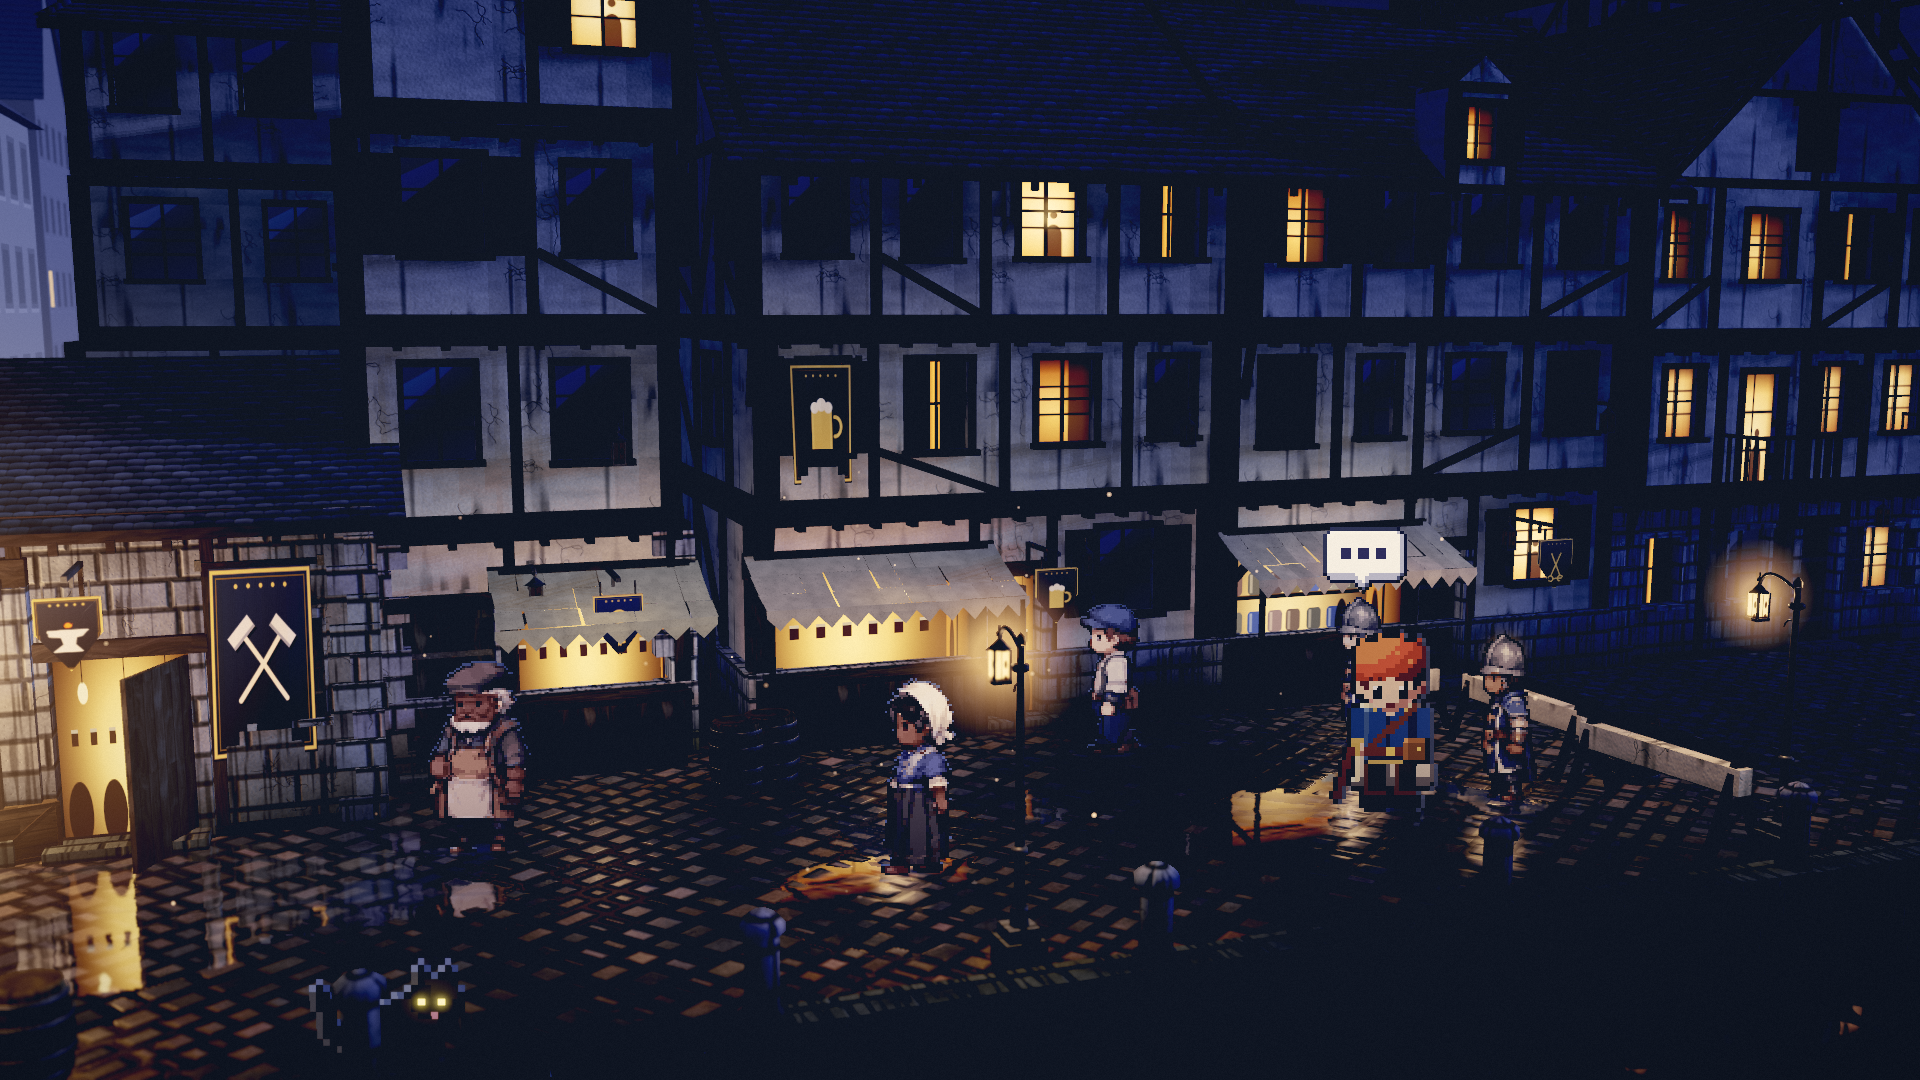
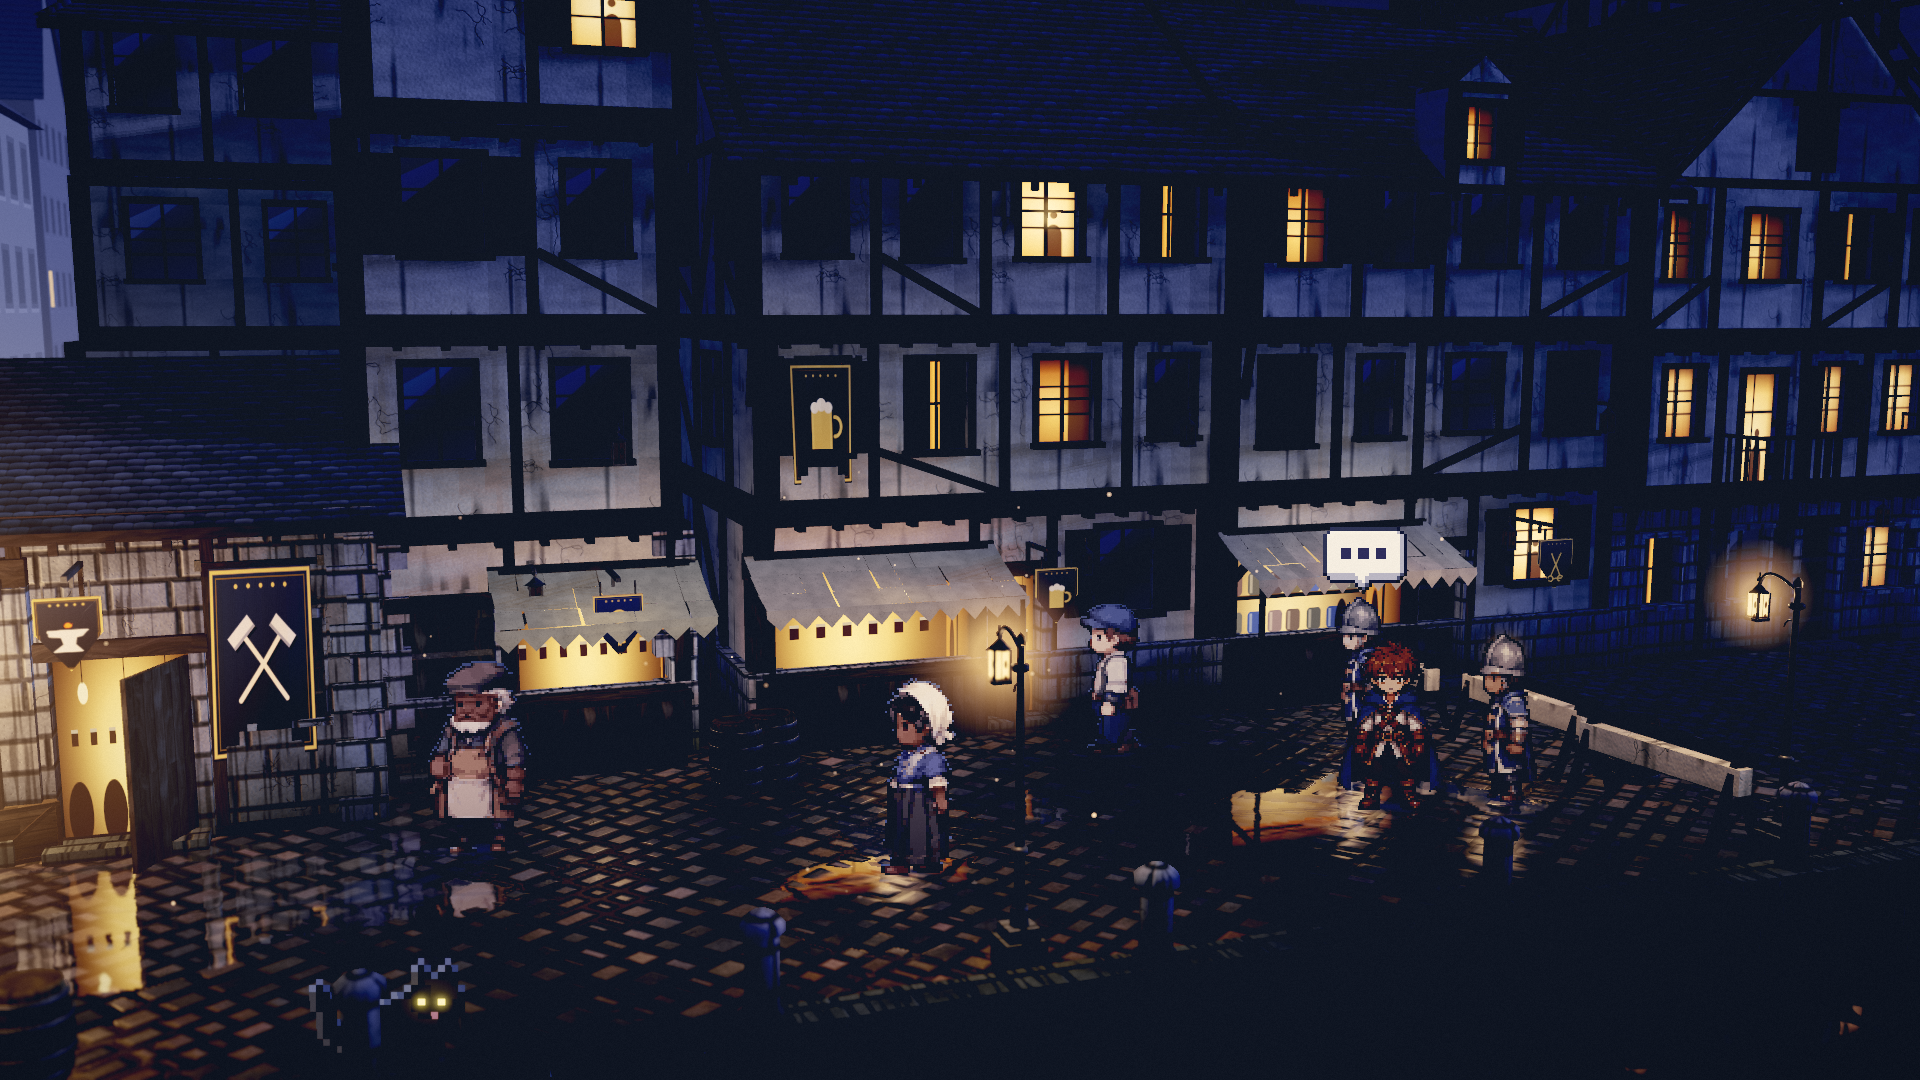
Pass H10: hero-x2-v3 in production on the player and the five-view rule by default (operator decisions RH1 « Production », RH2 « Par défaut avec le héros »)
The manifest approved with the decision quoted and dated (export 65788b0d...), the pack's approvals and rights line; the hero is the cast's
last entry (its 60 frames open the baked texture's second column, every NPC frame keeps its cell: 382 of 672). ActorSystem.views5 on by
default, ?views=3 for the three-view rule. Proofs: the branch's default equals frozen main with ?cast=candidate&views=5 at 0 px in A/B/C/D;
?cast=generated 0 px; against main's default only the player changes; the production bundle carries the hero; foot slip B -0.07, D -0.07;
tests rewritten (atlas order and cells, cast roles, walkSlide 14), a fault injected and caught; calibration references refreshed.

Changed region(s): [[0.6875, 0.5806, 0.75, 0.7639]]

diff --git a/src/characters/BakedCast.ts b/src/characters/BakedCast.ts
@@ -84,8 +84,9 @@ const ENTRIES: Entry[] = [
   { manifest: { id: twId, status: twStatus, approved: twApproved, runtimeUse: twUse }, png: townswomanPng, json: townswomanJson, files: townswomanFiles, replaces: ['crowd2'], scale: 0.9 },
   { manifest: { id: omId, status: omStatus, approved: omApproved, runtimeUse: omUse }, png: olderMerchantPng, json: olderMerchantJson, files: olderMerchantFiles, replaces: ['crowd3'], scale: 0.9 },
   { manifest: { id: coId, status: coStatus, approved: coApproved, runtimeUse: coUse }, png: courierPng, json: courierJson, files: courierFiles, replaces: ['crowd4'], scale: 0.9 },
-  // CANDIDATE, not approved (journal Pass H8; hero-x2-v2 of Pass H5 before it): the premium hero on the player, DEV review only
-  // (?cast=candidate); its three-quarter facings only with ?views=5
+  // the premium hero on the player (journal Passes H8, H9; approved for production on 2026-10-19, review sheet RH1 « Production », Passe D3);
+  // its three-quarter facings through the five-view rule, the default (?views=3: three views). LAST in the list: its 60 frames come after the
+  // NPCs' in the baked texture (the first column full, the second opened), so every NPC frame keeps its cell (journal Passe T1)
   { manifest: { id: heId, status: heStatus, approved: heApproved, runtimeUse: heUse }, png: heroPng, json: heroJson, files: heroFiles, replaces: ['player'], scale: 0.9 },
 ];
 

diff --git a/src/app/App.ts b/src/app/App.ts
@@ -187,8 +187,9 @@ export class App {
     // ?crowd=<n>: n ambient walkers, the five townsfolk in turn (journal Passe C1); absent: round(5 x density), the default (Passe C2)
     const crowd = Number(this.opts.params.get('crowd'));
     if (this.opts.params.has('crowd') && Number.isInteger(crowd) && crowd >= 0 && crowd <= 12) this.actors.crowdCount = crowd;
-    // DEV ?views=5: the five-view rule for the sheets that have three-quarter facings (journal Passe V5; a review before the operator decides)
-    if (import.meta.env.DEV && this.opts.params.get('views') === '5') this.actors.views5 = true;
+    // the five-view rule for the sheets that have three-quarter facings, by default (journal Passe V5; the operator's decision of 2026-10-19,
+    // « Par défaut avec le héros », Passes D3 / H10); ?views=3: the three-view rule for every sprite, for comparison
+    if (this.opts.params.get('views') === '3') this.actors.views5 = false;
     if (baked) this.actors.authored = baked.spawns;
     this.actors.onInteractForge = () => this.setForgeState(this.config.forgeState === 'NORMAL_FORGE' ? 'SABOTAGED_FORGE' : 'NORMAL_FORGE');
     this.scene.add(this.sprites.group);

diff --git a/src/characters/ActorSystem.ts b/src/characters/ActorSystem.ts
@@ -70,9 +70,10 @@ export class ActorSystem {
    *  (the operator's decision of 2026-10-19, « Cinq par défaut », journal Passe C2: at density 1 each approved townsperson walks once) */
   crowdCount: number | null = null;
 
-  /** the five-view rule for walking facings (fiveViewFacing; DEV `?views=5`, journal Passe V5), for the sheets that have the two three-quarter
-   *  facings only: every other sprite keeps the three-view rule, unchanged */
-  views5 = false;
+  /** the five-view rule for walking facings (fiveViewFacing, journal Passe V5; the default since the operator's decision of 2026-10-19,
+   *  Passes D3 / H10; `?views=3` turns it off), for the sheets that have the two three-quarter facings only: every other sprite keeps the
+   *  three-view rule, unchanged */
+  views5 = true;
   private has34 = new Map<string, boolean>();
 
   /** camera: shows a walking facing by its on-screen direction (null: the world rule for every facing) */

diff --git a/JOURNAL.md b/JOURNAL.md
@@ -800,14 +800,72 @@ Rien à faire pour RH3, RH4 (les trois-quarts des PNJ restent « Plus tard ») e
 - Les choix se relisent dans la collection même quand l'opérateur colle le récapitulatif. Les deux concordent ici ; un écart serait reposé
   à l'opérateur avant d'agir.
 
+## Passe H10 — Héros : `hero-x2-v3` en production, la règle à cinq vues par défaut (décisions RH1, RH2) (2026-10-19)
+
+### Demande
+- Décisions de l'opérateur (Passe D3), mot pour mot : RH1 « Production », RH2 « Par défaut avec le héros ».
+- Branche `hero-production-h10` depuis `main` (`095e716`).
+
+### Fait — [OK]
+- **Approbation** : le manifeste passe à `status: approved`, `approved: true`, `runtimeUse: production`.
+  - L'approbation cite la décision et sa date, et l'empreinte de l'export approuvé (`65788b0d…`, celui de la Passe H9).
+  - Le paquet de provenance reçoit la même entrée dans `approvals`, son statut et la ligne des droits.
+  - Droits : la planche v4-b, générée avec le compte OpenAI de l'opérateur, et sa planche v3 ; l'usage en production décidé par l'opérateur ;
+    droits de tiers non vérifiés exhaustivement ; C2PA lu, non vérifié.
+  - Pas de Gold Master (RJ3).
+- **Distribution** : l'entrée du héros reste la **dernière** de `BakedCast`.
+  - Ses 60 images viennent après les 322 des PNJ dans la texture cuite : la première colonne se remplit, la seconde s'ouvre (382 images sur
+    les 672 garanties, Passe T1).
+  - Chaque image des PNJ garde sa case.
+- **Cinq vues par défaut** : `ActorSystem.views5 = true`. `?views=3` rend la règle à trois vues à tout sprite ; le paramètre `?views=5`
+  disparaît. Elle ne s'applique qu'aux feuilles qui ont les deux trois-quarts : aujourd'hui, le héros seul.
+- **Documents** : `AGENTS.md` (le principe de production, les paramètres `views`, `cast`), `art-lab/README.md`,
+  `art-lab/characters/README.md` (tableau de la distribution).
+
+### Preuves
+- **Captures déterministes** : graine 1842, `clean=1&freeze=7.3&vis=0`, 300 pas, A / B / C / D ; la branche contre `main` figé
+  (`095e716`, :5187).
+  - **La production est exactement ce que l'opérateur a revu** : la branche par défaut contre `main` avec `?cast=candidate&views=5` donne
+    **0 px** sur les quatre cadrages (écart max 0).
+  - `?cast=generated` : **0 px** contre `main` ; l'ancienne distribution générée reste disponible.
+  - Contre `main` par défaut, seul le joueur change : son sprite, son reflet, sa longue ombre de lune (A 14 602 px, B 31 963, C 33 071 ;
+    D 0, le joueur hors champ).
+  - Témoin de répétition : 0 px.
+- **Bundle de production** (`npm run build`, servi par `vite preview` sur :5189) : le joueur porte `hero-x2-v3`, la règle à cinq vues est
+  active, la texture cuite fait 2 048 de large.
+  - **[?]** Le bundle et le serveur DEV ne donnent pas la même image à la même graine (B : 22 919 px), y compris avec `?cast=generated`
+    (24 230 px). L'écart ne vient donc pas du héros ; sa cause n'est pas cherchée (piste : du code DEV qui tire dans `Math.random` à graine).
+    Les preuves d'image se comparent sur le même type de serveur.
+- **Glissement en mouvement** (`tools/foot-slip.mjs --secs=3 --keys=d`) : B −0,07, D −0,07. Ce sont les valeurs de la Passe H8, la
+  quantification.
+- **Tests** :
+  - `tests/baked-atlas.test.mjs` réécrit : le héros est la dernière feuille de la production ; les PNJ gardent case et octets ; le héros
+    remplit la dernière étagère de la première colonne puis la seconde ; 336 < 382 ≤ 672.
+  - `tests/baked-cast.test.mjs` : le joueur entre dans la liste des rôles distribués.
+  - `tests/stride.test.mjs` : `walkSlide` du héros, 14.
+  - **Faute injectée** (le héros remis avant les citadins dans la liste) : attrapée.
+  - typecheck, `npm test` 87 / 87, build, `art:validate` 0 erreur.
+- **Références** : `screenshots/calibration/cam{A,B,C,D}-*.png` refaites (requêtes de `tools/screenshots.mjs`, capture déterministe, 120 pas,
+  témoin 0 px). Contre les anciennes : 0,23 à 0,92 % des pixels, tous autour du joueur.
+
+### Restes [?]
+- Le chat reste généré.
+- Relevés de la Passe H9, à suivre en jeu : la course de face « sur place », la bouche grisâtre en B, l'œil lointain du trois-quarts.
+- Les trois-quarts des PNJ : « Plus tard » (RH4).
+
+### Pensée
+- Une approbation de production se prouve contre ce que l'opérateur a revu, sur la même base : la production d'après doit égaler, au pixel
+  près, la revue d'avant (`?cast=candidate&views=5` sur `main`).
+- Une feuille ajoutée en dernier ne déplace rien de ce qui la précède ; le test le dit par l'ordre et par les cases.
+
 ## À reprendre (par priorité)
 
 > Élaguée le 18/10 (Passe M3) : seul le travail ouvert reste, regroupé par thème ; ce qui est fait vit dans sa passe. Les anciens repères
 > (-3 … 6) cités par les passes antérieures renvoient à la liste de `7086340` (`git show 7086340:JOURNAL.md`).
 
-**0. Jalon M1 — décisions de la fiche de revue (Passe D3), à appliquer dans l'ordre de cette passe** : héros en production et cinq vues
-par défaut ; pivot de A à 5,8 ; suivi `?camfollow=screen` par défaut avec sa preuve ; diagnostic du recul au bord de l'eau ; gel (T1, T2,
-T7) ; district clos après le gel ; puis l'état jour. Gold Master : « Pas encore » (RJ3).
+**0. Jalon M1 — décisions de la fiche de revue (Passe D3), à appliquer dans l'ordre de cette passe** : pivot de A à 5,8 ;
+suivi `?camfollow=screen` par défaut avec sa preuve ; diagnostic du recul au bord de l'eau ; gel (T1, T2, T7) ; district clos après le gel ;
+puis l'état jour. Gold Master : « Pas encore » (RJ3). Fait : le héros en production et les cinq vues par défaut (Passe H10).
 
 **1. Distribution de personnages — décisions de l'opérateur, non traitées** (état de la distribution : `art-lab/characters/README.md`)
 - **Variantes de PNJ** (demande de l'opérateur du 17/10, mot pour mot : « Par ailleurs a la suite de nos travaux de sprites NPC qui sont
@@ -849,11 +907,11 @@ T7) ; district clos après le gel ; puis l'état jour. Gold Master : « Pas enco
   glissement ≈ 0). Décisions de la Passe D1 : « Source : la b » (planche v4-b), « Cinq vues, le héros d'abord », « Sprint ×1,2 », vues du
   côté droit « Ignorées » : appliquées en Passe H8 (`hero-x2-v3`, candidat en cinq vues, revue de l'opérateur en jeu) ; visage retouché au texel en Passe H9 (yeux
   ouverts, bouche, ombre des joues ; critique à l'aveugle : 7 contre 5 sur le visage) ; fiche de revue (Passe D3) : RH1 « Production »,
-  RH2 « Par défaut avec le héros », RH3 « Fait », RH4 « Plus tard » (les trois-quarts des PNJ). Vues de trois-quarts : étude `briefs/three-quarter-views.md` (aucun trois-quarts dos sur la planche v3 ; Passe I1 :
+  RH2 « Par défaut avec le héros » : **en production depuis la Passe H10**, cinq vues par défaut ; RH3 « Fait », RH4 « Plus tard » (les trois-quarts des PNJ). Vues de trois-quarts : étude `briefs/three-quarter-views.md` (aucun trois-quarts dos sur la planche v3 ; Passe I1 :
   deux planches générées en huit vues, trois-quarts dos compris, archivées comme sources non canoniques). Plus tard : masques du héros pour ses
   déclinaisons, écran de choix (code de jeu). Le reste des planches du casting : propositions non canoniques, design à valider avant toute
   production.
-- **Personnages clés et suite de l'art** : héros et chat restent générés (densité ×1) ; ni personnage clé ni personnage **original** au
+- **Personnages clés et suite de l'art** : le chat reste généré (densité ×1 ; le héros est cuit depuis la Passe H10) ; ni personnage clé ni personnage **original** au
   même niveau ; E4 non lancée. Avant d'étendre : densité du cast (héros), liseré dépendant de la densité (liseré par sprite non implémenté),
   largeurs de texel inégales à ≈ 2 px / texel, cycle de marche en A. Décision ouverte : quelles planches étaient réellement rejetées (la
   consigne de 4A en parlait sans les montrer ; les trois planches archivées sont toutes classées comme références). Le modelé ×1,5 n'est

diff --git a/AGENTS.md b/AGENTS.md
@@ -211,10 +211,11 @@ on the porter actor, standing still, in the real scene; `-` = generated frames f
 see `art-lab/README.md`) · DEV server only, EXPERIMENTAL: `baked=<id>&bakedpos=x,z` (a baked export in the MAIN atlas and renderer, per
 `art-lab/characters/runtime-integration-contract.md` v3; never in production builds; flags in `src/lab/bakedLoader.ts`) · `crowd=<n>` (n ambient walkers, the five townsfolk in turn, journal Passe C1; absent =
 round(5 x density) in turn, each townsperson once at density 1: the operator's decision of 2026-10-19, « Cinq par défaut », journal Passe C2) · `cast=generated`
-(skip the production cast of baked characters, `src/characters/BakedCast.ts`: the old generated porter / merchant) · DEV server only:
-`cast=candidate` (also load the cast entries whose manifests still wait for the operator's approval: review before production) · DEV server only:
-`views=5` (the five-view rule, journal Passe V5: front / three-quarter / profile sectors at 22.5 / 67.5 deg on screen, for the sheets
-that hold both three-quarter facings `downSide` / `upSide` only; every other sprite keeps the three views) · DEV server only:
+(skip the production cast of baked characters, `src/characters/BakedCast.ts`: the old generated hero / porter / merchant / NPCs) · DEV server only:
+`cast=candidate` (also load the cast entries whose manifests still wait for the operator's approval: review before production; none today) ·
+`views=3` (the three-view rule for every sprite; absent = the five-view rule, journal Passe V5: front / three-quarter / profile sectors at
+22.5 / 67.5 deg on screen, for the sheets that hold both three-quarter facings `downSide` / `upSide` only, today the hero; every other sprite
+keeps the three views; the default since the operator's decision of 2026-10-19, « Par défaut avec le héros », journal Passes D3 / H10) · DEV server only:
 `variants=candidate` (apply the NPC variants file `art-lab/characters/variants/variants.json` while it waits for the operator's approval; production
 applies it only once approved, its mask fingerprints checked, journal Passe V1) · `scene=arena` (the arena of the Cité du Tournoi instead of the
 town, `src/arena/ArenaApp.ts`, loaded on demand; journal Passe P1; absent = the town, unchanged) with `assist=subtle|full|off` (the prototype's
@@ -233,7 +234,8 @@ cost, reproducibility and operator approval — not procedural purity.
   manifest is approved for production. Today: `dockworker-x2-v2` (in place of the porter), `merchant-x2-v2` (the hero stall's
   merchant), `blacksmith-x2-v1` (the forge's blacksmith), `guard-x2-v1` (both guards), `hooded-x2-v1` (the hooded stranger) and the five
   townsfolk of the ambient crowd (`artisan-x2-v1`, `traveler-x2-v1`, `townswoman-x2-v1`, `older-merchant-x2-v1`, `courier-x2-v1` in place of
-  `crowd0`..`crowd4`), approved by the operator on 2026-10-17; the hero and the cat are still generated. The arena scene (`?scene=arena`, journal
+  `crowd0`..`crowd4`), approved by the operator on 2026-10-17; `hero-x2-v3` (the player, in five facings), approved on 2026-10-19 (« Production »,
+  journal Passes D3 / H10); the cat is still generated. The arena scene (`?scene=arena`, journal
   Passe P1) generates its fighters (Ren with the hero's palette, Marek) with the town generator's rules at x2 density (`src/arena/FighterArt.ts`);
   a baked sheet can take their place by the same frame keys only through an approved manifest.
 - A baked asset may reach the runtime only through an approved provenance manifest (`approved: true`, `runtimeUse: "production"`)

diff --git a/art-lab/characters/README.md b/art-lab/characters/README.md
@@ -1,11 +1,11 @@
 # Character Art Lab
 
-Contract for the character pipeline. Current state (2026-10-18; history: Passes 4A-0A to 4A-quatervicies, archived in `journal/`,
+Contract for the character pipeline. Current state (2026-10-19; history: Passes 4A-0A to 4A-quatervicies, archived in `journal/`, and the hero, Passes H5 to H10,
 index at the top of `JOURNAL.md`):
 
 - **Toolchain** validated end to end (Pass 4A-0B); `npm run art:doctor` reports what is configured.
-- **Production cast** — `approved: true`, `runtimeUse: "production"`, approved by the operator on 2026-10-17, **none declared a Gold
-  Master**; loaded by the game through `src/characters/BakedCast.ts` (sheet SHA-256 checked against `provenance/<id>/PROVENANCE.json`,
+- **Production cast** — `approved: true`, `runtimeUse: "production"`, approved by the operator on 2026-10-17 (the hero on 2026-10-19), **none
+  declared a Gold Master**; loaded by the game through `src/characters/BakedCast.ts` (sheet SHA-256 checked against `provenance/<id>/PROVENANCE.json`,
   decoded byte-exact), each in place of one generated archetype on the same seeded spawns (`?cast=generated` shows the old sprites):
 
   | Manifest | Stands in for | Animations (front / back / side) |
@@ -16,10 +16,12 @@ index at the top of `JOURNAL.md`):
   | `guard-x2-v1` | both guards | idle, walk |
   | `hooded-x2-v1` | the hooded stranger | idle, walk |
   | `artisan-x2-v1`, `traveler-x2-v1`, `townswoman-x2-v1`, `older-merchant-x2-v1`, `courier-x2-v1` | the ambient crowd (`crowd0`..`crowd4`) | idle, walk |
+  | `hero-x2-v3` | the player (journal Passes H8, H9, H10) | idle, run, in five facings (front, three-quarter front, profile, three-quarter back, back) |
 
-  All density x2 (64 × 96 frames, the world frame of the 32 × 48 runtime sprites), built from the 01-16 / 17-24 reference sheets by
+  All density x2 (64 × 96 frames, the world frame of the 32 × 48 runtime sprites), built from the 01-16 / 17-24 reference sheets (the hero:
+  from the generated v4-b turnaround and the v3 sheet's run, journal Passe H8) by
   `tools/art-lab/build-character.mjs` from `rigs/<id>.rig.mjs` (`--check` rebuilds and compares). Approvals, revisions and blind
-  critiques: each manifest's `approval`, `provenance/<id>/`, `reviews/<id>/`. The hero and the cat are still generated.
+  critiques: each manifest's `approval`, `provenance/<id>/`, `reviews/<id>/`. The cat is still generated.
 - **Lab only** — `dockworker-x2-v1`: the **approved visual baseline** for standard NPCs (operator, 2026-10-16: art direction + in-scene +
   dynamic validation; `runtimeUse: "lab"`, not a production asset). Standard NPCs = its quality at density x2; key characters get a
   higher budget later; one art direction, different precision budgets; never degrade a new character to match the old sprites.

diff --git a/art-lab/README.md b/art-lab/README.md
@@ -8,8 +8,8 @@ reference sheets -> rig scripts -> Aseprite sources -> baked sheets (PNG + JSON)
 > `src/characters/BakedCast.ts` (each sheet hash-checked, decoded byte-exact), and only for the manifests approved by the operator with
 > `runtimeUse: "production"`: `dockworker-x2-v2`, `merchant-x2-v2`,
 > `blacksmith-x2-v1`, `guard-x2-v1`, `hooded-x2-v1` and the five townsfolk of the ambient crowd (`artisan-x2-v1`, `traveler-x2-v1`,
-> `townswoman-x2-v1`, `older-merchant-x2-v1`, `courier-x2-v1`), all approved on 2026-10-17, none declared a Gold Master. The hero and the
-> cat are still generated; `?cast=generated` shows the old generated sprites. Everything else here (Character Lab, tools, sources,
+> `townswoman-x2-v1`, `older-merchant-x2-v1`, `courier-x2-v1`), all approved on 2026-10-17, and the hero `hero-x2-v3`, approved on 2026-10-19;
+> none declared a Gold Master. The cat is still generated; `?cast=generated` shows the old generated sprites. Everything else here (Character Lab, tools, sources,
 > reviews, lab and experimental exports) stays out of the game and of its build. Details: [`characters/README.md`](characters/README.md);
 > history: Passes 4A-0A to 4A-quatervicies, archived in `journal/` (index at the top of `JOURNAL.md`).
 >
